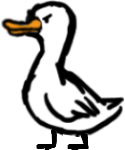
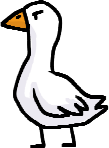
Enemy spawns and updated sprites

Changed region(s): [[0.0, 0.0, 1.0, 1.0]]

diff --git a/GameWorld.cs b/GameWorld.cs
@@ -87,7 +87,38 @@ namespace MortensKomeback
             gameObjects.Add(new IntroScreen());
             gameObjects.Add(new MousePointer(_graphics));
             gameObjects.Add(new CharacterGenerator());
-            gameObjects.Add(new Enemy());
+
+            #region Add enemies
+            gameObjects.Add(new Enemy(new Vector2(1000, 1050)));
+            gameObjects.Add(new Enemy(new Vector2(2500, 1050)));
+            gameObjects.Add(new Enemy(new Vector2(5444, -1330)));
+            gameObjects.Add(new Enemy(new Vector2(7370, 1050)));
+            gameObjects.Add(new Enemy(new Vector2(8291, 1050)));
+            gameObjects.Add(new Enemy(new Vector2(9234, 1050)));
+            gameObjects.Add(new Enemy(new Vector2(10632, 1050)));
+            gameObjects.Add(new Enemy(new Vector2(12071, -340)));
+            gameObjects.Add(new Enemy(new Vector2(12231, 820)));
+            gameObjects.Add(new Enemy(new Vector2(14446, 1050)));
+            gameObjects.Add(new Enemy(new Vector2(15494, 1050)));
+            gameObjects.Add(new Enemy(new Vector2(16078, 1050)));
+            gameObjects.Add(new Enemy(new Vector2(18789, 249)));
+            gameObjects.Add(new Enemy(new Vector2(21671, 444)));
+            gameObjects.Add(new Enemy(new Vector2(24880, -600)));
+            gameObjects.Add(new Enemy(new Vector2(26077, 419)));
+            gameObjects.Add(new Enemy(new Vector2(25591, 1050)));
+            gameObjects.Add(new Enemy(new Vector2(26403, 1050)));
+            gameObjects.Add(new Enemy(new Vector2(28104, 997)));
+            gameObjects.Add(new Enemy(new Vector2(31510, -200)));
+            gameObjects.Add(new Enemy(new Vector2(32721, -200)));
+            gameObjects.Add(new Enemy(new Vector2(34356, 1050)));
+            gameObjects.Add(new Enemy(new Vector2(34586, 1050)));
+            gameObjects.Add(new Enemy(new Vector2(34807, 1050)));
+            gameObjects.Add(new Enemy(new Vector2(36414, -175)));
+            gameObjects.Add(new Enemy(new Vector2(37876, -429)));
+            gameObjects.Add(new Enemy(new Vector2(38767, -925)));
+            gameObjects.Add(new Enemy(new Vector2(39481, -1367)));
+            #endregion
+
             gameObjects.Add(new Overlay());
             
             gameObjects.AddRange(new Environment(_graphics).Surfaces); //Adding the environment to gameObjects

diff --git a/Enemy.cs b/Enemy.cs
@@ -42,14 +42,16 @@ namespace MortensKomeback
         /// <summary>
         /// enemy constructor
         /// </summary>
-        public Enemy()
+        public Enemy(Vector2 placement)
         {
-            this.position.X = 1000;
-            this.position.Y = 0;
-            this.speed = 250;
+            this.position = placement;
+            this.layer = 0.91f;
+            //this.position.X = 1000;
+            //this.position.Y = 0;
+            this.speed = 200;
             this.velocity = new Vector2(1, 0);
             this.fps = 15f;
-            this.Health = 1;
+            this.health = 1;
             this.layer = 0.8f;
             this.scale = 1;
             this.IsHit = false;
@@ -69,8 +71,8 @@ namespace MortensKomeback
         public override void LoadContent(ContentManager content)
         {
             //Loader sprites til animation
-            sprites = new Texture2D[7];
-            normalSprites = new Texture2D[7];
+            sprites = new Texture2D[8];
+            normalSprites = new Texture2D[8];
             for (int i = 0; i < sprites.Length; i++)
             {
                 normalSprites[i] = content.Load<Texture2D>("gooseWalk" + i);
@@ -79,18 +81,16 @@ namespace MortensKomeback
             //Sætter default sprite
             sprites = normalSprites;
             sprite = sprites[0];
-            ////Indlæs honk Lyd
-            //honkSound = content.Load<SoundEffect>("gooseSound_cut");
 
-
-            //Indlæs honk Lyd
-            honkSound = content.Load<SoundEffect>("gooseSound_Short");
             //loader aggro animation 
-            aggroSprite = new Texture2D[7]; //sæt til 7
+            aggroSprite = new Texture2D[8]; //sæt til 7
             for (int i = 0; i < aggroSprite.Length; i++)
             {
                 aggroSprite[i] = content.Load<Texture2D>("aggro" + i);
             }
+
+            //Indlæs honk Lyd
+            honkSound = content.Load<SoundEffect>("gooseSound_Short");
 
         }
 
